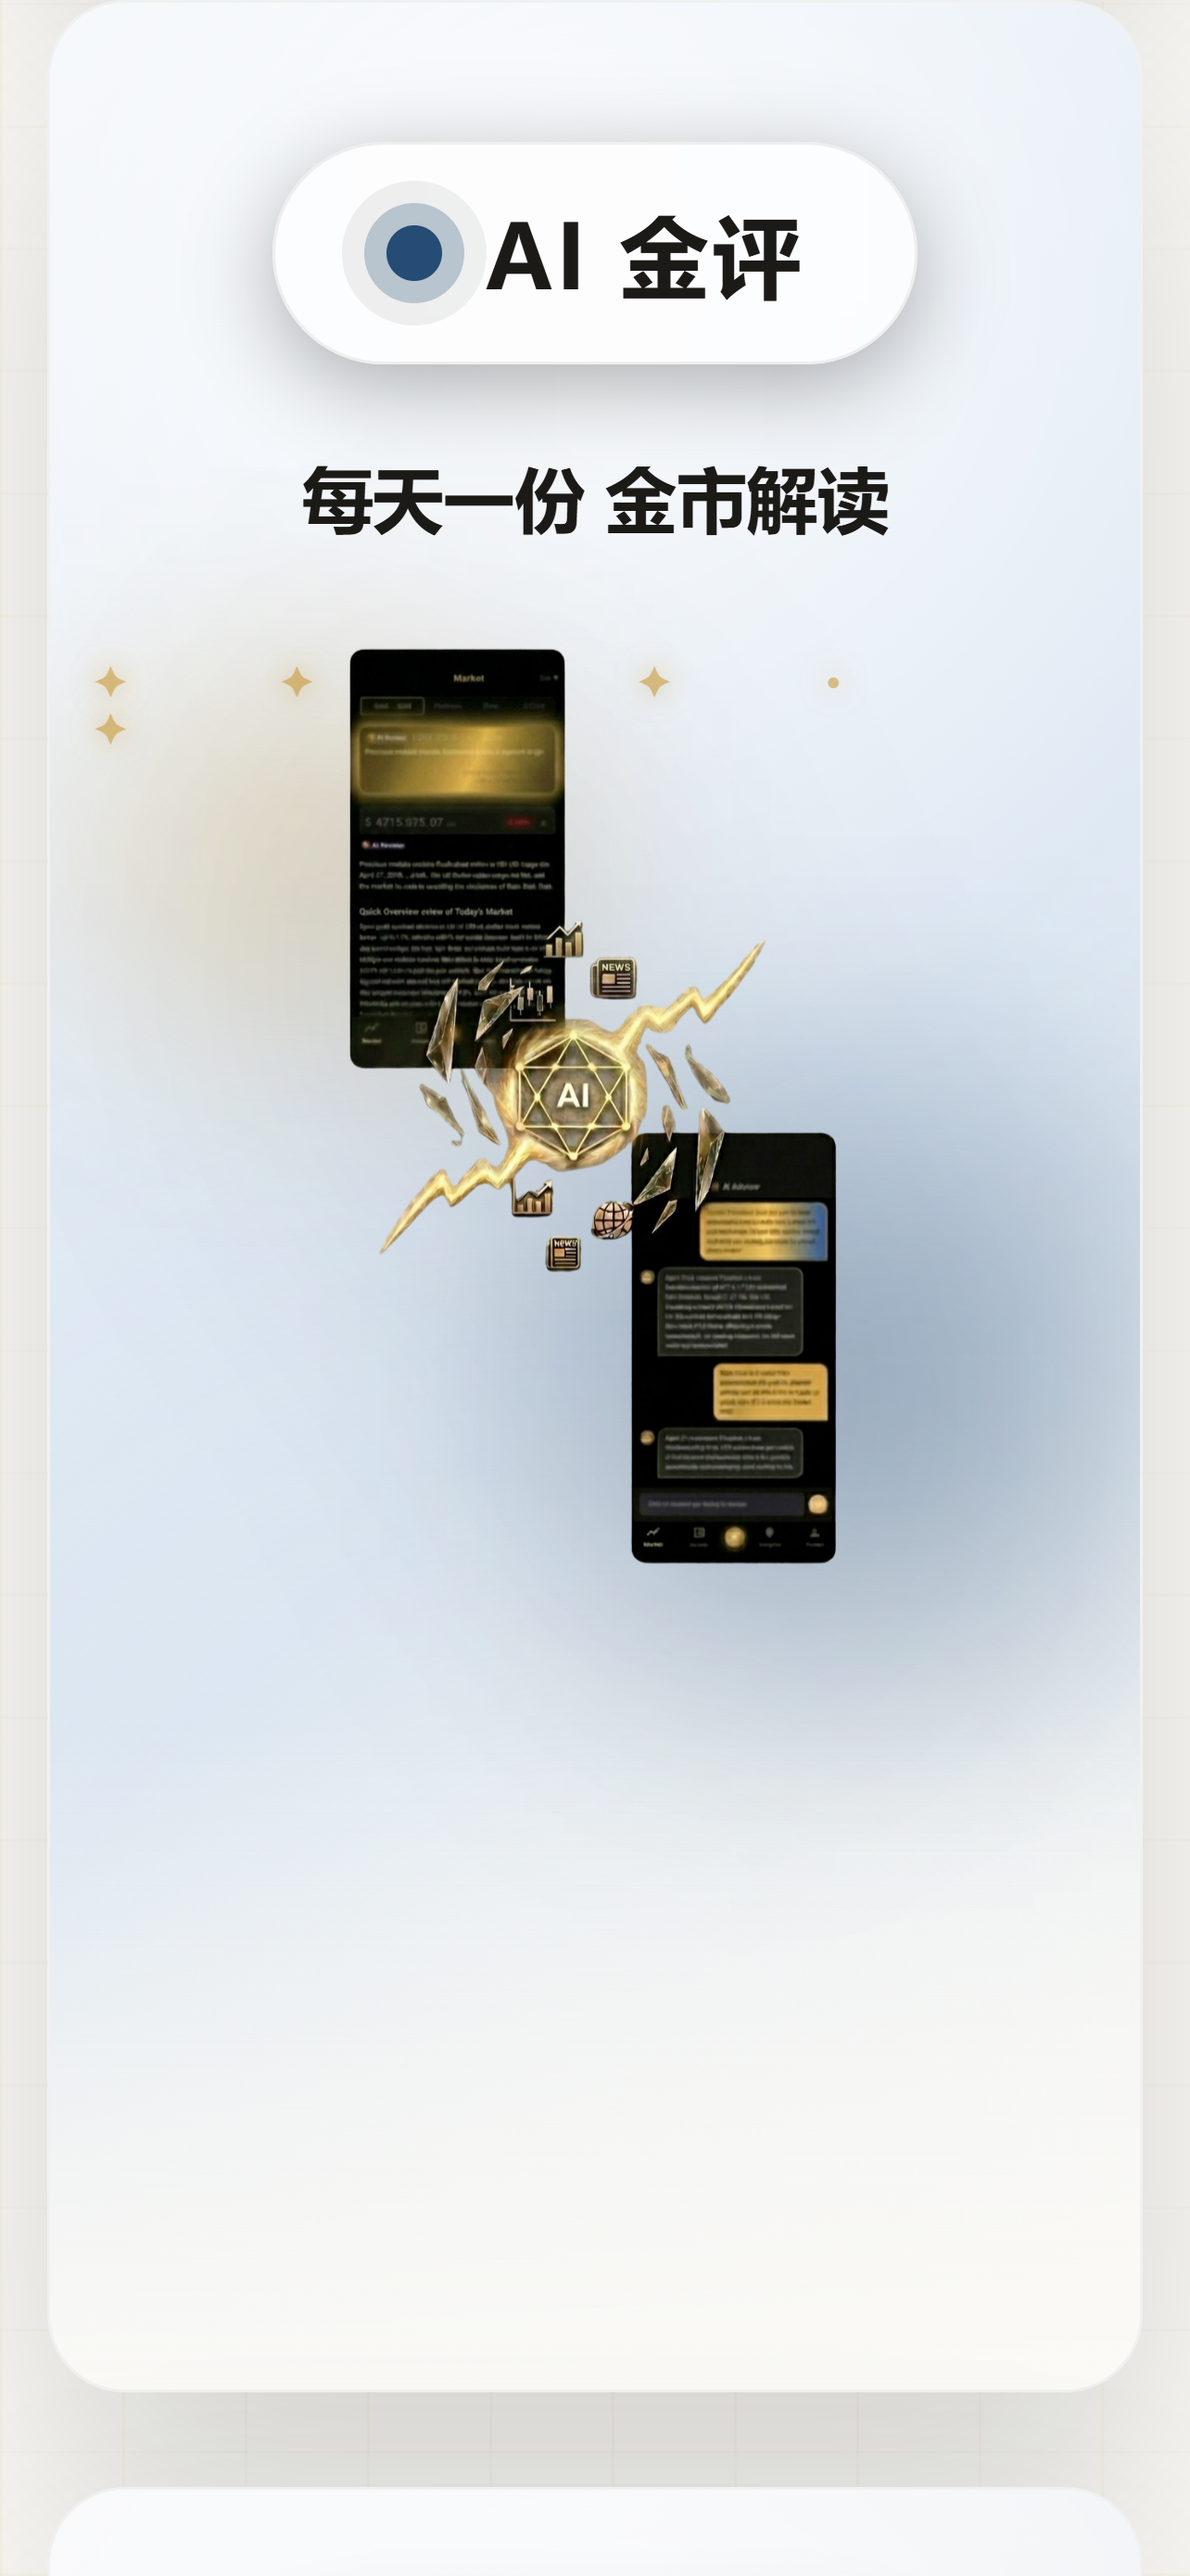
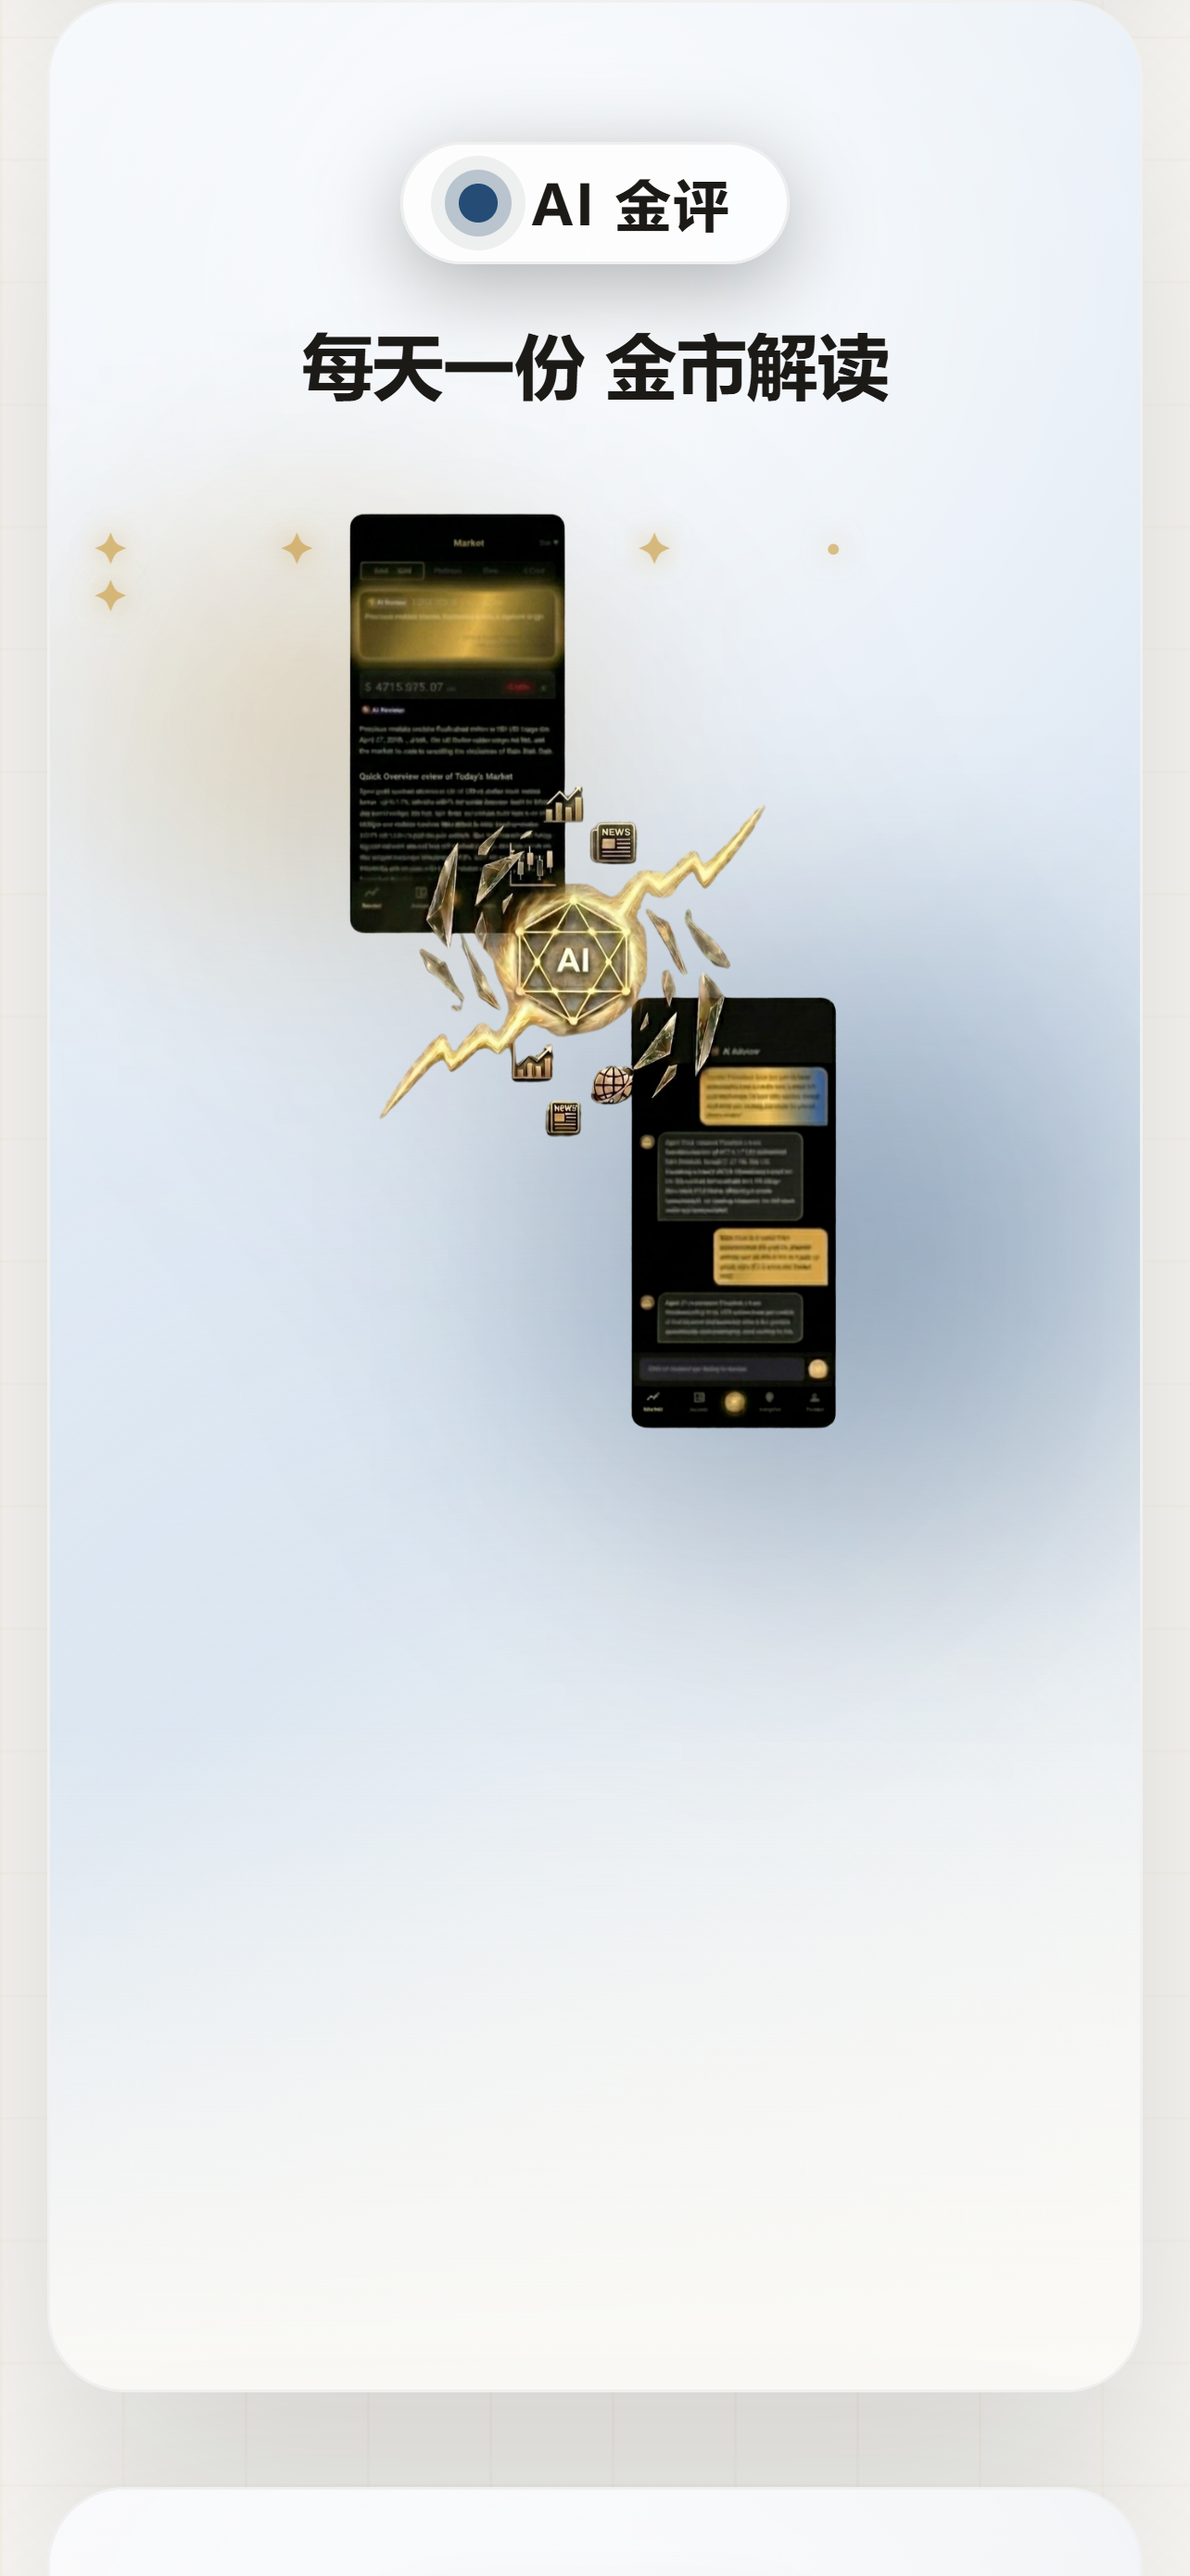
style: reduce kicker size slightly smaller than h2

Changed region(s): [[0.2181, 0.0619, 0.7788, 0.6501], [0.0623, 0.1857, 0.1246, 0.2477], [0.5296, 0.2477, 0.5607, 0.2786]]

diff --git a/index.html b/index.html
@@ -212,16 +212,16 @@
         .slide-kicker {
             display: inline-flex;
             align-items: center;
-            gap: 16px;
-            min-height: 72px;
-            margin-bottom: 24px;
-            padding: 0 32px;
+            gap: 12px;
+            min-height: 48px;
+            margin-bottom: 16px;
+            padding: 0 20px;
             border: 1px solid var(--glass-border);
             border-radius: 999px;
             background: var(--glass-bg);
             backdrop-filter: blur(20px);
             color: var(--ink);
-            font-size: clamp(28px, 5vw, 36px); /* Doubled */
+            font-size: clamp(18px, 3vw, 24px); /* Slightly smaller than h2 */
             font-weight: 800;
             letter-spacing: 0.04em;
             text-transform: uppercase;
@@ -230,13 +230,13 @@
 
         .slide-kicker::before {
             content: "";
-            width: 20px;
-            height: 20px;
+            width: 14px;
+            height: 14px;
             border-radius: 50%;
             background: var(--kicker-dot, var(--gold));
             box-shadow:
-                0 0 0 8px var(--kicker-halo, rgba(201,149,47,0.28)),
-                0 0 0 16px rgba(0,0,0,0.06);
+                0 0 0 5px var(--kicker-halo, rgba(201,149,47,0.28)),
+                0 0 0 10px rgba(0,0,0,0.06);
         }
 
         /* Per-slide dot color anchoring each slide to its gradient identity */
@@ -504,10 +504,10 @@
             }
 
             .slide-kicker {
-                min-height: 80px;
-                padding: 0 40px;
-                margin-bottom: 32px;
-                font-size: 32px;
+                min-height: 44px;
+                padding: 0 20px;
+                margin-bottom: 20px;
+                font-size: 20px;
             }
 
             .slide-copy h2 {
